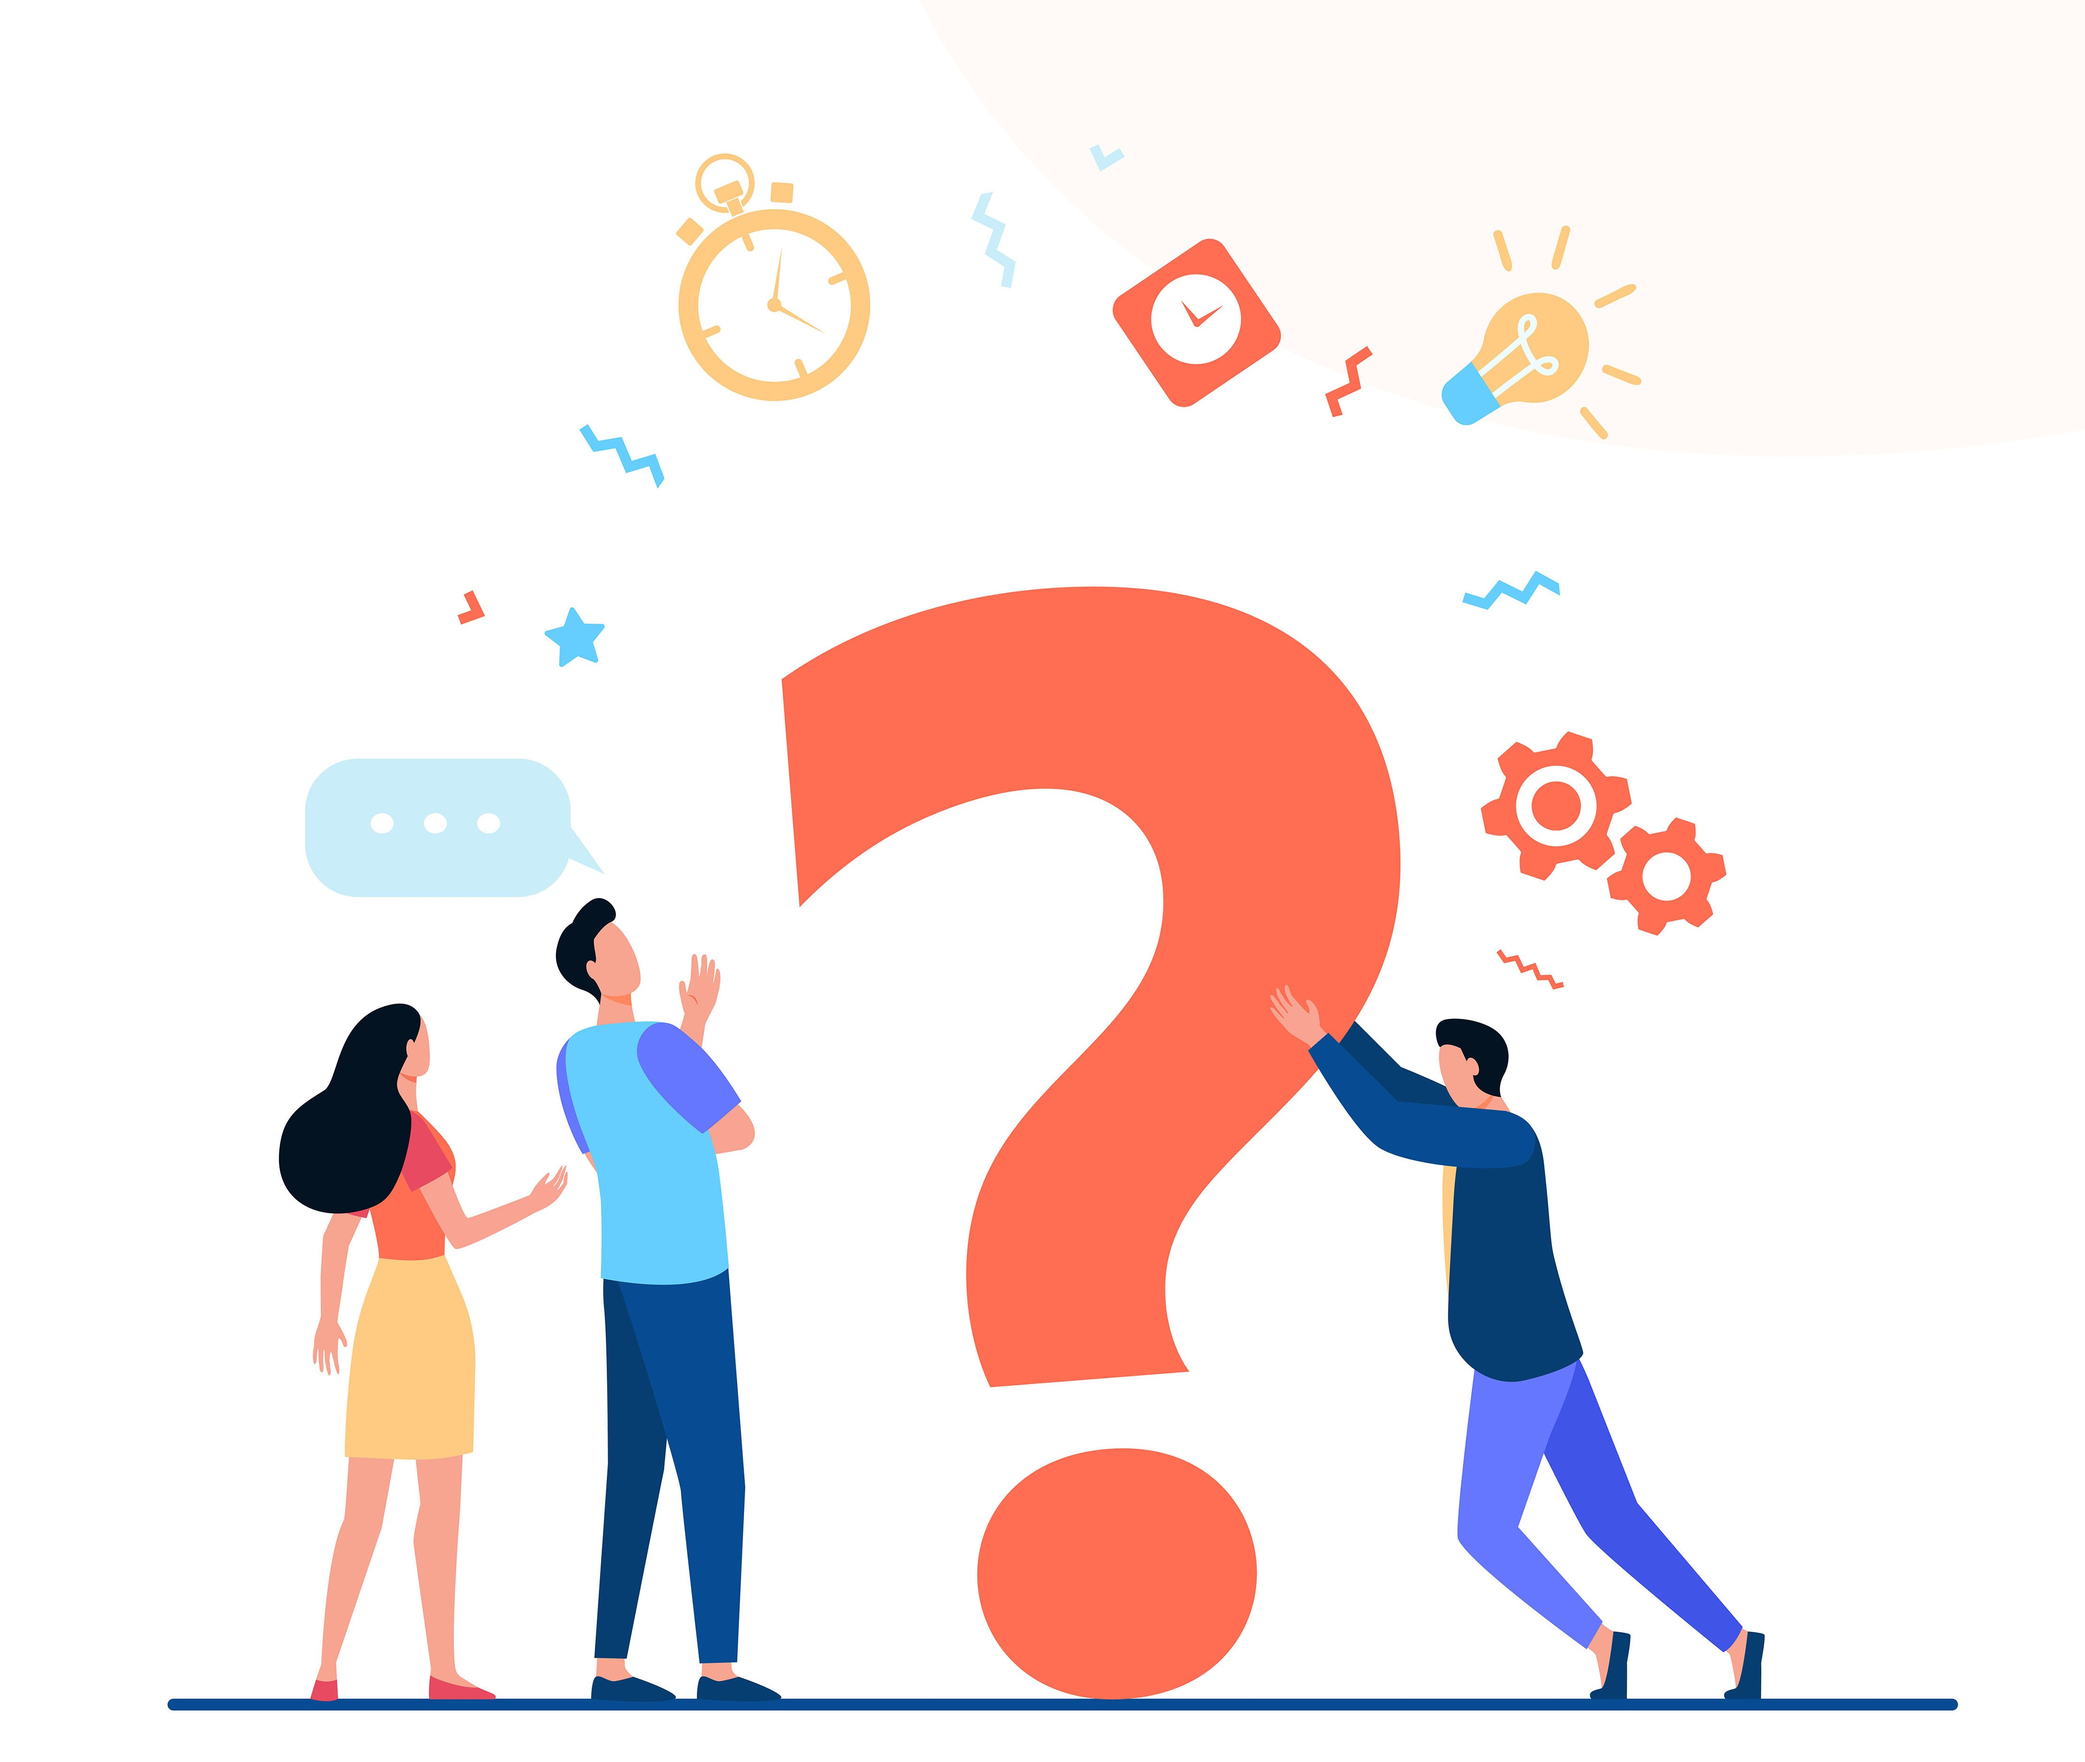
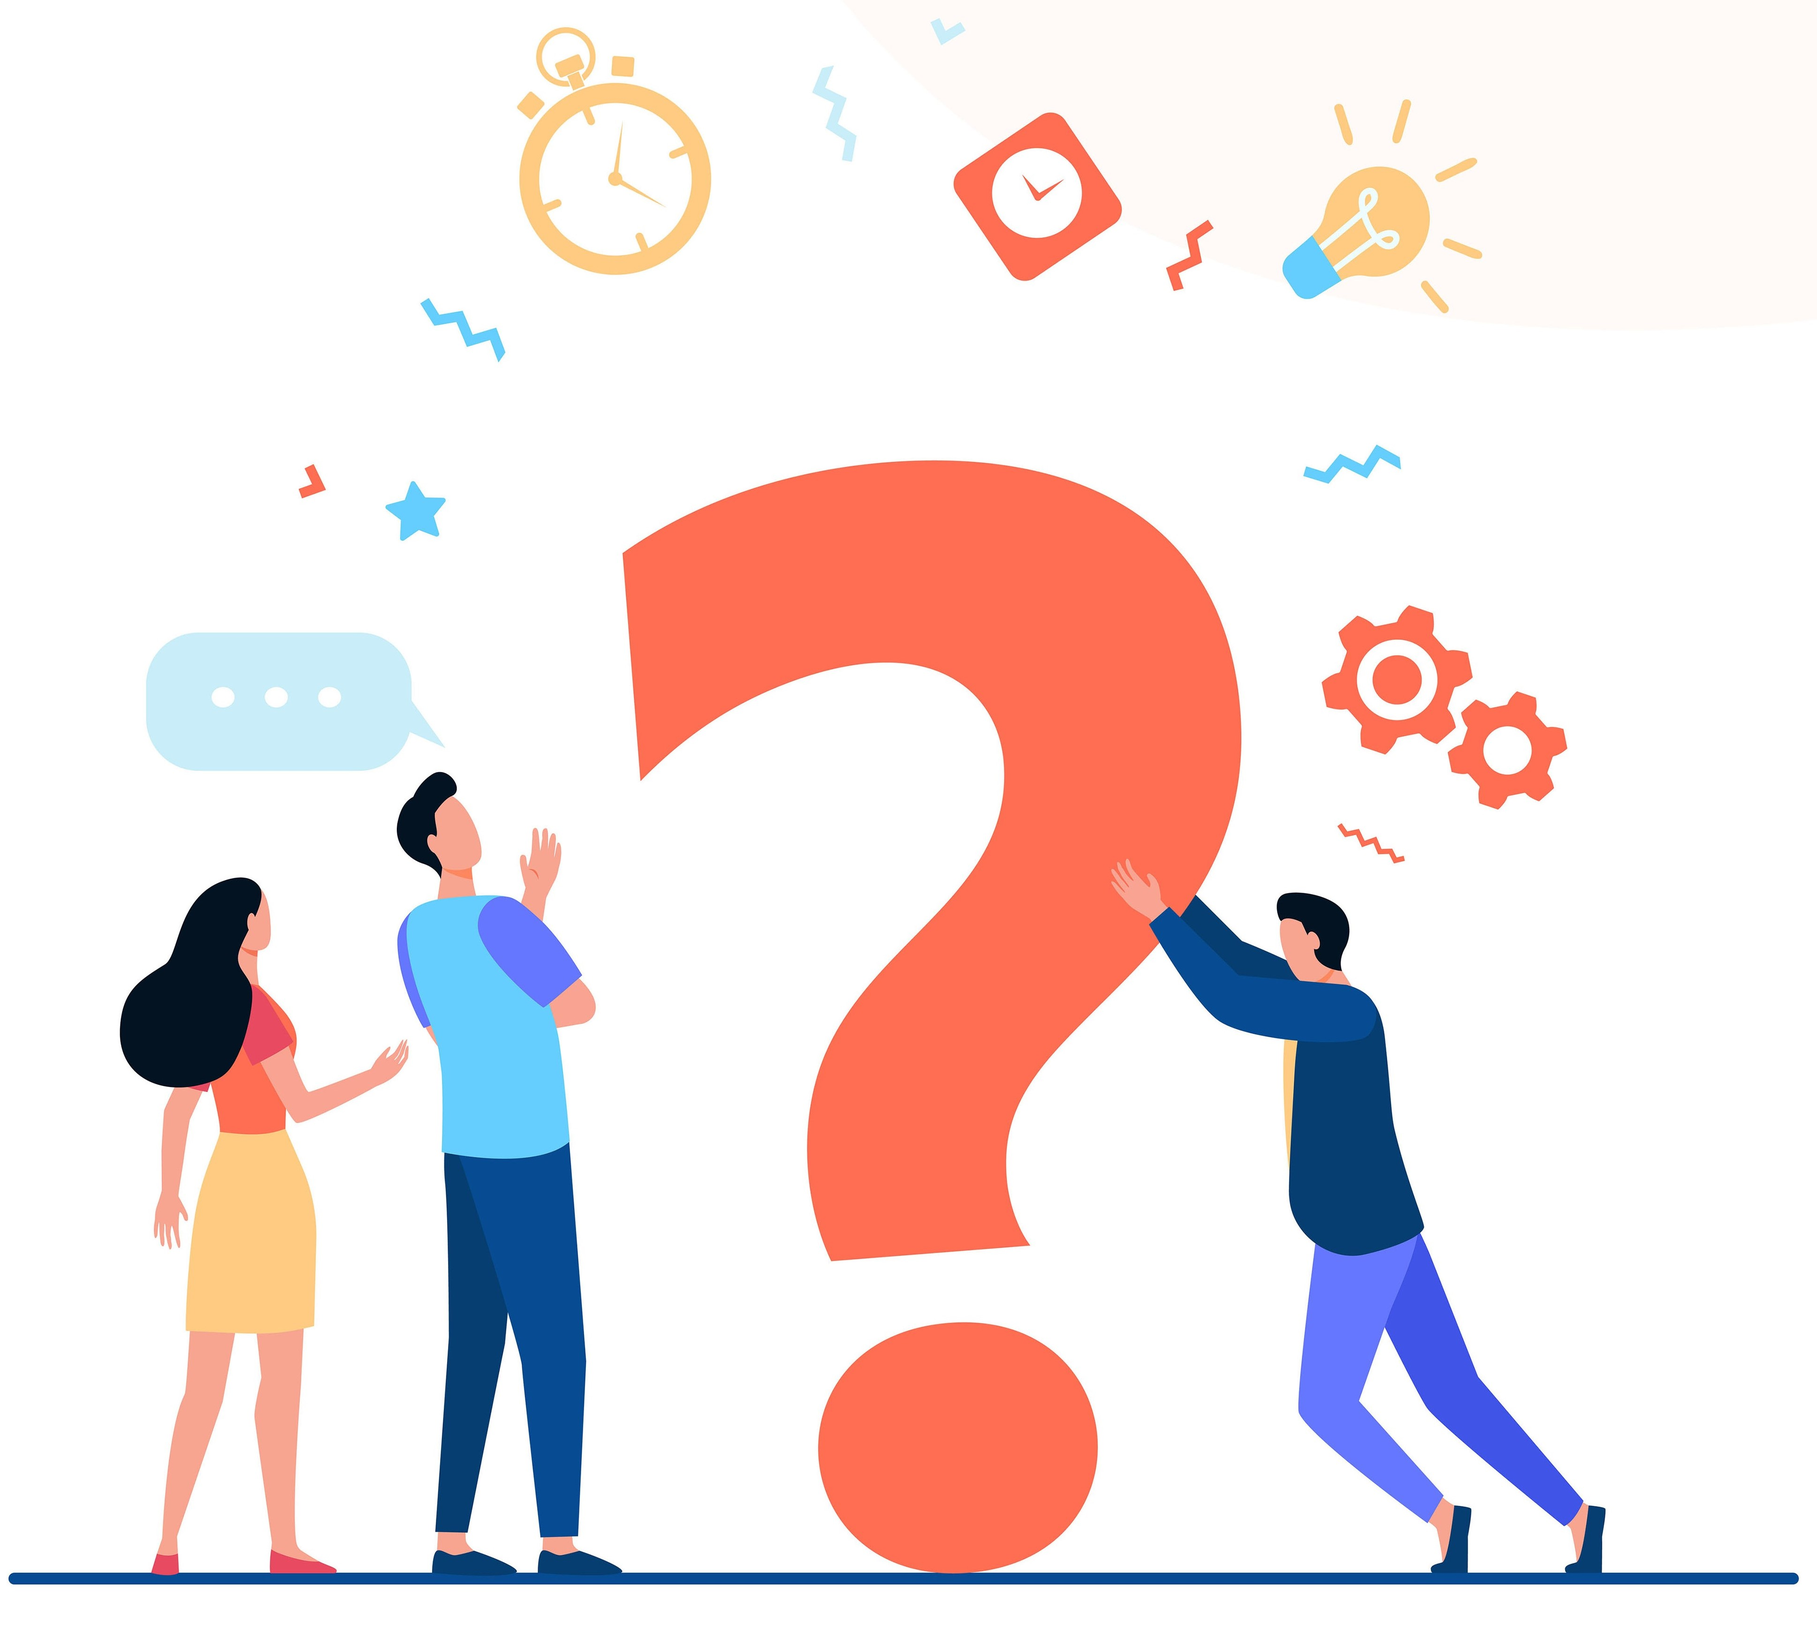
Made homepage responsive

diff --git a/Styles/home.css b/Styles/home.css
@@ -113,19 +113,18 @@ input:focus,textarea:focus
 
 .row1
 {
-    height: 100vh;
+    display: flex;
+    flex-direction:column;
     background-color: #ffffff;
     /* background-image: url(../Images/blue\ circle\ background.png); */
-    background-repeat: no-repeat;
-    background-position: right -150px bottom -350px;
 }
 
 .background
 {
     width: 45vw;
-    max-width: 33rem;
-    bottom: 0rem;
-    right: 0.1vw;
+    max-width: 28rem;
+    top: 6rem;
+    right: 2rem;
     position: absolute;
 }
 
@@ -138,7 +137,7 @@ input:focus,textarea:focus
     margin-left: 4.5rem;
     margin-top: 2.5rem;
     width: fit-content;
-    height: 80vh;
+    height: 26rem;
 }
 
 .welcome
@@ -153,7 +152,7 @@ input:focus,textarea:focus
 {
     margin-left: 0.3rem;
     margin-top: 0.2rem;
-    font-size: 1.6vw;
+    /* font-size:  ; */
 }
 
 .quizbtn
@@ -190,7 +189,6 @@ input:focus,textarea:focus
     flex-direction: column;
     align-items: center;
     justify-content: center;
-    height: 60vh;
 }
 
 .row2>h1
@@ -256,6 +254,14 @@ input:focus,textarea:focus
     align-items: center;
 }
 
+.horizontal-line
+{
+    display: none;
+    height: 1px;
+    width: 90vw;
+    background-color: rgb(187, 185, 185);
+}
+
 .readmore
 {
     display: block;
@@ -318,5 +324,141 @@ input:focus,textarea:focus
 
 /* Styles for responsiveness */
 
+/* styles for approx tablet size */
+@media screen and (max-width: 897px) 
+{
+    #hamburger-icon
+    {
+        cursor: pointer;
+        display: block;
+        position: absolute;
+        top: 18px;
+        left: 5px;
+    }
 
+    .top
+    {
+        /* centering the logo */
+        justify-content: center; 
+    }
+
+    .logo
+    {
+        margin: 0px;
+    }
+
+
+    .navbar
+    {
+        /* repositioning navbar */
+        position: fixed;
+        /* removing margin property */
+        margin: 0px;
+        inset: 4rem auto auto -7rem;
+        background-color: #51afde;
+        padding: 7px 27px;
+        transition: inset 0.5s;
+    }
+
+    .navbar ul 
+    {
+        /* displaying navbar options vertically */
+        flex-direction: column;
+    }
+
+    .navbar ul li
+    {
+        margin: 5px 0px;
+    }
+
+    .background
+    {
+        display: none;
+        /* position: absolute;
+        top: 50%;
+        right: 50%;
+        transform: translate(50%,-50%);
+        opacity: 0.2; */
+    }
+    
+    .container
+    {
+        align-items: center;
+        width: auto;
+        margin: auto;
+        background-image: url(../Images/home\ page\ icon.jpg);
+    }
+
+    .welcome
+    {
+        text-align: center;
+        font-size: 2.5rem;
+    }   
+
+    .description
+    {
+        font-size: 1.2rem;
+        display: flex;
+        flex-direction: column;
+        align-items: center;
+    }
+}
+/* styles for approx tablet size ends */
+
+
+@media screen and (max-width: 782px)
+{
+    .features-container
+    {
+        flex-direction: column;
+    }
+
+    .feature
+    {
+        font-size: 1rem;
+    }
+
+    .feature-icon img
+    {
+        height: 3.5rem;
+    }
+}
+
+@media screen and (max-width: 629px)
+{
+    .row3
+    {
+        display: flex;
+        flex-direction: column;
+    }
+
+    .row3>div
+    {
+        margin-bottom: 10px;
+    }
+
+    .horizontal-line
+    {
+        display: block;
+    }
+}
+
+
+@media screen and (max-width: 520px)
+{
+    .welcome
+    {
+        font-size: 2rem;
+    }
+
+    .description
+    {
+        font-size: 0.9rem;
+    }
+
+    .row1
+    {
+        height: 73vh;
+    }
+}
 /* Styles for responsiveness ends */

diff --git a/HTML/home.html b/HTML/home.html
@@ -22,7 +22,6 @@
 
 
     <link rel="stylesheet" href="../Styles/home.css">
-    <script src="../Script/home.js"></script>
 </head>
 
 <body>
@@ -31,14 +30,14 @@
     <div class="row1">
         <!-- navigation bar with logo -->
         <div class="top">
-            <i class="fa-solid fa-bars" id="hamburger-icon"></i> 
+            <i class="fa-solid fa-bars" id="hamburger-icon" onclick="toggle()"></i> 
             <div>
                 <a href="home.html">
                     <img class="logo" src="../Images/logo.png" alt="">
                 </a>
             </div>
 
-            <div class="navbar">
+            <div class="navbar" id="navbar">
                 <ul>
                     <li><a href="home.html">Home</a></li>
                     <li><a href="quiz_selection.html">Quiz</a></li>
@@ -154,11 +153,13 @@
 
             <div class="column2">
                 <ul>
+                    <li class="horizontal-line"></li>
                     <li><a href="home.html">Home</a></li>
-                    <li><a href="">Quiz</a></li>
+                    <li><a href="quiz.php">Quiz</a></li>
                     <li><a href="team.html">Team</a></li>
                     <li><a href="about_us.html">About</a></li>
                     <li><a href="contact.php">Contact</a></li>
+                    <li class="horizontal-line"></li>
                 </ul>
             </div>
 
@@ -176,6 +177,9 @@
         <p>&copy; 2023 BCA Quiz Hub. All rights reserved.</p>
     </div>
     <!-- row 4 ends  -->
+
+    <script src="../Script/home.js"></script>
+
 </body>
 
 </html>

diff --git a/Script/home.js b/Script/home.js
@@ -1,0 +1,16 @@
+let navbar = document.getElementById('navbar');
+let navbar_visible = false;
+
+function toggle()
+{
+    if(navbar_visible == false)
+    {
+        navbar.style.inset = '4rem auto auto 0rem';
+        navbar_visible = true;
+    }
+    else
+    {
+        navbar.style.inset = '4rem auto auto -7rem';
+        navbar_visible = false;
+    }
+}
